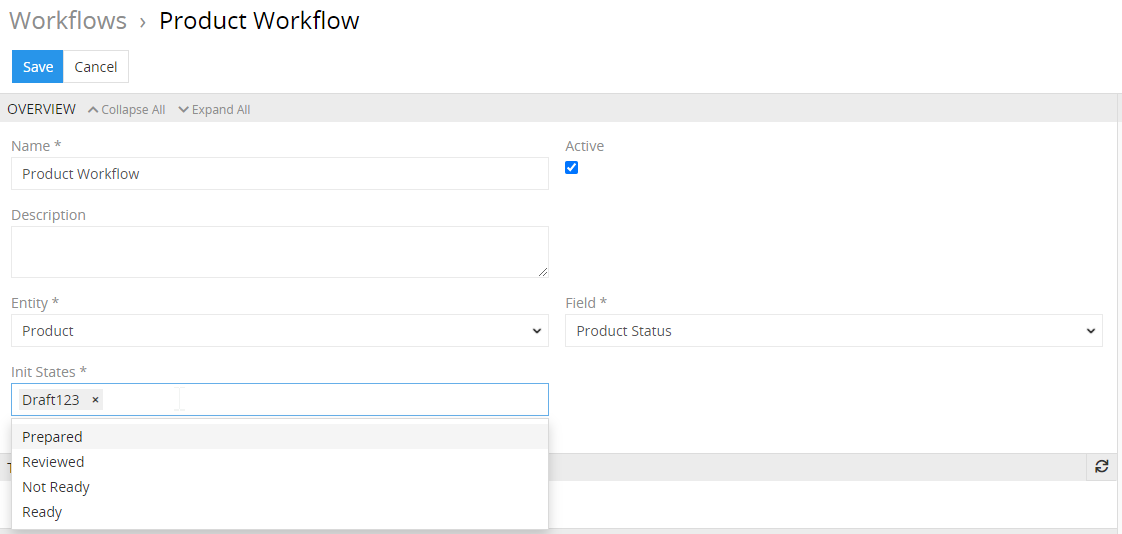
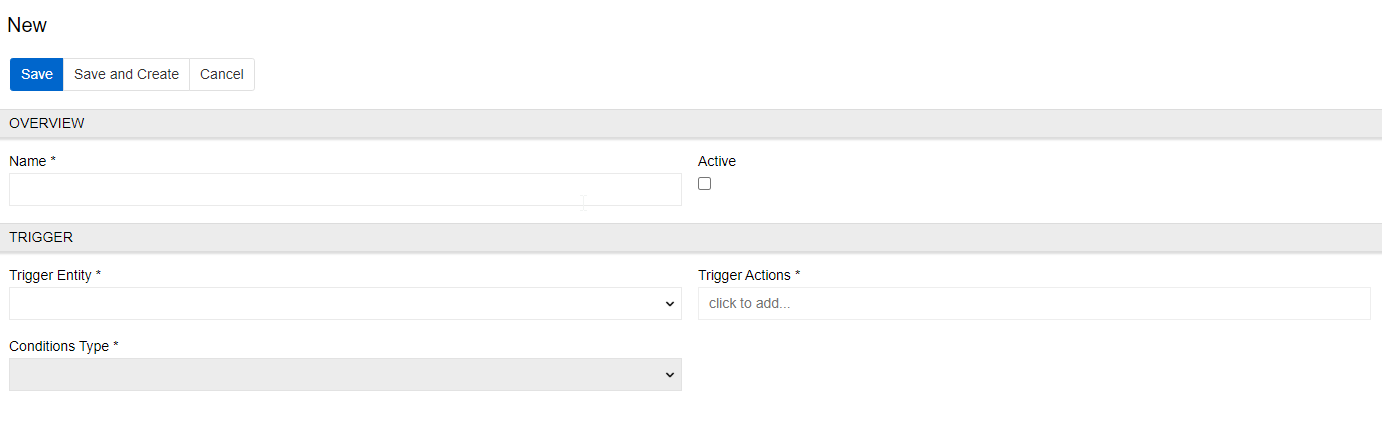
update workflows

diff --git a/modules/workflows.md b/modules/workflows.md
@@ -39,24 +39,37 @@ You can configure as many workflows as you wish. More than one workflow can be a
 
 Click on the button `Create Workflow` to create a new workflow.
 
-To create a new workflow define the "name", then choose the "entity" to allign with the workflow and the "field", which stores the possible places of the workflow. You can also define the "init states" here. More than one is allowed. You can also write a brief description about your workflow, so that you don't forget how it works in the future.
+To create a new workflow, define the "Name", then choose the "Trigger entity" to align with the workflow and the entity, which is going to be investigated when searching. Then define the "Trigger Actions" and "Conditions Type".
 
 ![Create product workflow](./_assets/workflows/create-product-workflow.png)
 
-### Transitions
-In the panel Transitions you can define all possible transitions for your workflow. Click on the plus icon to define a new transition.
+### Trigger Actions
 
-![Transition list](./_assets/workflows/transitions-list.png)
+For workflow to work you must set trigger actions. When mentioned action is done to a Trigger entity then workflow is started. You can choose multiple actions, but at least one is always required. For more advance settings use conditions.
+ 
+![Create product workflow](./_assets/workflows/trigger_actions.png)   
 
-Choose the “from” state and the “to” state, activate the transition and click on the `Save` button to save the new transition.
+### Conditions Type
 
-![New transition](./_assets/workflows/create-new-transition.png)
+There are two condition types available - "Basic" and "Twig". Their logic basically states: "trigger workflow on trigger action when condition is fulfilled (the results are true)".
 
-The frontend automatically supports, that only configured transitions are available. So if you set the system up so that when choose from “Draft” the workflow can only change to “Prepared”. This is the only option that will be available in the dropdown menu for the state.
+#### Basic
 
-The system will automatically create the workflow chart, so you can see what your workflow looks like visually.
+For easier use you can select basic conditions. They follow common logic with AND OR and NOT. These are combined in any shape. Fields are the end results, and their options too look at are the same as for filtering. On the example below you can see a formula where workflow triggers on the trigger action when a field "amount" is empty or brand is Xiaomi.
+ 
+![Basic conditions](./_assets/workflows/basic.png)   
 
-![Workflow chart](./_assets/workflows/workflow-chart.png)
+#### Twig
+
+Twig is more complicated use case but as a result more versatile. To use it you have to set a formula that results in a default Boolean variable "proceed" ({% set proceed = ... %}). For more detailed twig guidelines and syntax please go to https://twig.symfony.com/doc/.
+
+> Please note, conditions use database query to function. They are launched every time Trigger Actions are made. So, not to overload it with multiple queries, please, minimize amount of database queries by using best practices. For example, for twig you can set variables (like {% set brand = entity.brand %}) instead of doing full blown database queries for every field. You can also check if an entity is linked to another (like {% if entity.brand is not empty %}) before setting variables.
+
+## Workflow Actions
+
+If all conditions are met, workflow actions are launched. They are Update and Data exchange. Data exchange is launching a selected connector or an export/import feed. Update is in fact a mass update set on condition. You can select any entity to update or set Self-Targeted. Setting Self-Targeted will update only triggering record. Multiple actions can be assigned to one workflow.
+ 
+![Basic conditions](./_assets/workflows/actions.png)   
 
 ## Advanced Workflows
 Any advanced workflows and business process modeling can be implemented by workflow programming. Please refer to the Symfony Documentation to get to know the process.
